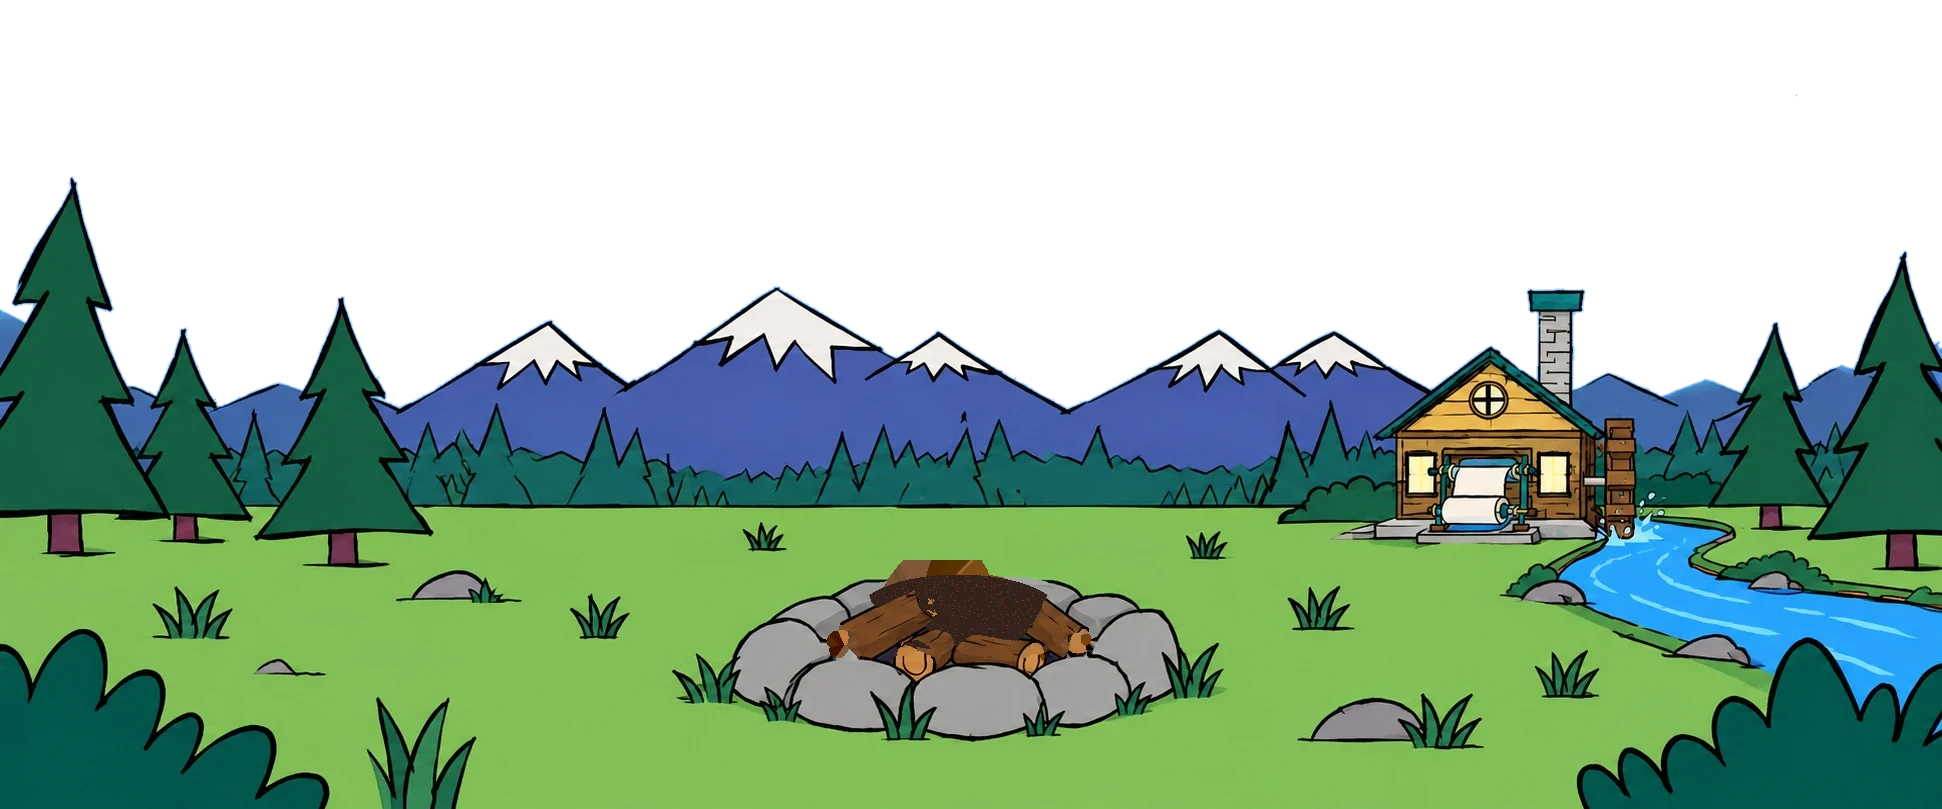
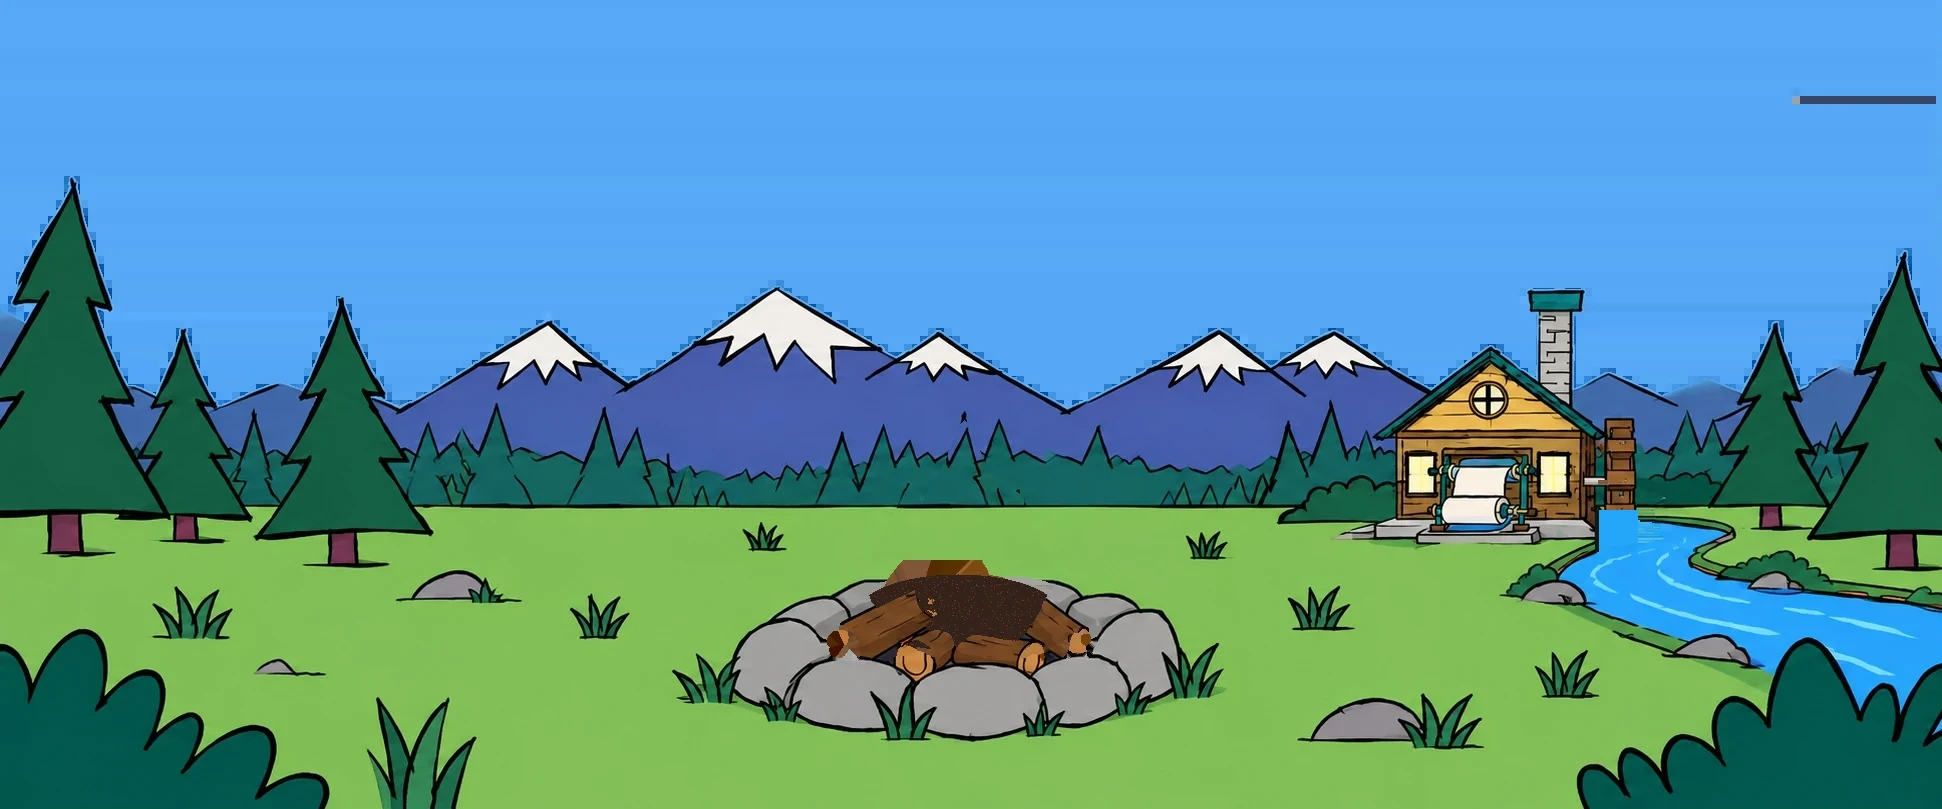
Scene fixes: deer nose, rabbit never hops backwards, tiny moving mill splash
The deer's last bend pose had lost its nose tip, so the graze stops one
pose short. The rabbit only looks back while it sits. The painted splash
at the mill is painted out; the wheel dips into a small channel with a
tiny animated froth, and the wheel strip no longer bleeds sky or water.

Claude-Session: https://claude.ai/code/session_01LEzX9WUx8sWcSwwRyLeaEz

diff --git a/web/src/components/scene.ts b/web/src/components/scene.ts
@@ -328,6 +328,20 @@ export function createScene(canvas: HTMLCanvasElement, onView?: (v: SceneView) =
     ctx.drawImage(land, wh.x, wh.y, wh.w, wh.h, wh.x, wh.y + off - wh.h, wh.w, wh.h);
     ctx.restore();
   }
+  // a tiny splash where the wheel dips in: a thin churn of foam, a few droplets, one ripple drifting off
+  function drawMillSplash(t: number, dark: number) {
+    const a = 1 - dark * 0.45, y0 = 515;
+    ctx.save();
+    ctx.fillStyle = `rgba(235,250,255,${0.85 * a})`;
+    for (let i = 0; i < 7; i++) { const x = 1600 + i * 6.3, r = 2.6 + 1.1 * Math.sin(t * 5.2 + i * 1.9);
+      ctx.beginPath(); ctx.ellipse(x, y0 + 1.5 + 0.8 * Math.sin(t * 3.7 + i), r + 1.2, r * 0.55, 0, 0, Math.PI * 2); ctx.fill(); }
+    for (let i = 0; i < 4; i++) { const ph = (t * 0.9 + i * 0.37) % 1, x = 1606 + i * 9 + ph * (i % 2 ? 7 : -5), y = y0 - Math.sin(ph * Math.PI) * (6 + i % 2 * 3);
+      ctx.fillStyle = `rgba(235,250,255,${(1 - ph) * 0.9 * a})`; ctx.beginPath(); ctx.arc(x, y, 1.6, 0, Math.PI * 2); ctx.fill(); }
+    const rp = (t * 0.45) % 1;
+    ctx.strokeStyle = `rgba(235,250,255,${(1 - rp) * 0.55 * a})`; ctx.lineWidth = 1.6;
+    ctx.beginPath(); ctx.ellipse(1622 + rp * 14, y0 + 5 + rp * 5, 10 + rp * 16, 2.2 + rp * 2, 0, 0.15, Math.PI - 0.15); ctx.stroke();
+    ctx.restore();
+  }
   function drawSun(px: number, py: number) {
     ctx.save(); ctx.translate(px, py); ctx.lineWidth = 4; ctx.strokeStyle = "#1b1712"; ctx.lineJoin = "round";
     ctx.beginPath(); for (let i = 0; i < 12; i++) { const a = i / 12 * Math.PI * 2; ctx.lineTo(Math.cos(a) * 78, Math.sin(a) * 78); ctx.lineTo(Math.cos(a + 0.26) * 58, Math.sin(a + 0.26) * 58); }
@@ -400,7 +414,7 @@ export function createScene(canvas: HTMLCanvasElement, onView?: (v: SceneView) =
     part("frontC", -sw - tilt * 0.8); part("frontD", sw - tilt * 0.8);
     // body + neck are one pre-bent drawing (12 poses, head up -> nose in the grass), so the shoulder never splits
     const nibble = g > 0.85 ? Math.max(0, Math.sin(t * 2.3)) * 1.4 : 0, sheet = assets["deer-bend.png"];
-    const fi = Math.max(0, Math.min(11, Math.round(e * 11 - nibble)));
+    const fi = Math.max(0, Math.min(10, Math.round(e * 10 - nibble))); // pose 11 of the sheet clips the nose, so the graze stops at 10
     if (sheet) { const fw = sheet.width / 12; x.drawImage(sheet, fi * fw, 0, fw, sheet.height, ox, oy + bob, fw * k, sheet.height * k); }
     x.restore(); x.restore();
     if (ringFront && deer.x > 640 && deer.x < 1280) x.drawImage(ringFront, 700, 560);
@@ -518,7 +532,7 @@ export function createScene(canvas: HTMLCanvasElement, onView?: (v: SceneView) =
   const rab = { active: false, x: 1760, dir: -1, mode: "hop", hop: 0, burst: 3, until: 0, stopAt: 1300, flee: false, look: 0, ear: 0, visits: 0 };
   function sendRabbit() { if (rab.active) return; Object.assign(rab, { active: true, x: 1730, dir: -1, mode: "hop", hop: 0, burst: 3, until: 0, flee: false, look: 0, stopAt: 1300 + Math.random() * 180, visits: 1 + Math.floor(Math.random() * 2) }); }
   function startle() { for (const pk of Object.values(peekers)) if (pk.active && !pk.duck) pk.duck = 1;
-    if (rab.active && !rab.flee && rab.dir < 0) { rab.flee = true; rab.dir = 1; rab.mode = "hop"; rab.hop = 0; } }
+    if (rab.active && !rab.flee && rab.dir < 0) { rab.flee = true; rab.dir = 1; rab.mode = "hop"; rab.hop = 0; rab.look = 0; } }
   function drawRabbit(x: CanvasRenderingContext2D, t: number, dt: number) {
     if (!rab.active) return;
     const k = 0.42, groundY = 776, hopLen = rab.flee ? 66 : 40, hopT = rab.flee ? 0.3 : 0.38;
@@ -535,7 +549,7 @@ export function createScene(canvas: HTMLCanvasElement, onView?: (v: SceneView) =
       if (Math.random() < dt * 0.5) rab.ear = t;
       if (!rab.look && Math.random() < dt * 0.25) rab.look = t;
       if (rab.look && t - rab.look > 0.9) rab.look = 0;
-      if (t > rab.until) { rab.visits--;
+      if (t > rab.until) { rab.visits--; rab.look = 0;
         if (rab.visits > 0) { rab.stopAt = Math.max(1280, rab.x - 50 - Math.random() * 70); rab.mode = "hop"; rab.burst = 2; }
         else { rab.dir = 1; rab.mode = "hop"; rab.burst = 9; } }
     }
@@ -545,7 +559,7 @@ export function createScene(canvas: HTMLCanvasElement, onView?: (v: SceneView) =
     const legB = inAir ? kf(p, [[0, 0], [0.3, 0.95], [0.62, 0.55], [0.88, -0.4], [1, 0]]) : 0;
     const legF = inAir ? kf(p, [[0, 0], [0.25, 0.25], [0.6, -0.55], [0.8, 0.05], [1, 0]]) : 0;
     const sx = inAir ? 1 + 0.08 * Math.sin(Math.PI * q) : 1, sy = inAir ? kf(p, [[0, 0.95], [0.12, 1.02], [0.8, 1], [0.9, 0.94], [1, 1]]) : 1;
-    const face = rab.look ? -rab.dir : rab.dir;
+    const face = rab.look && rab.mode === "alert" ? -rab.dir : rab.dir;
     const sniff = rab.mode === "alert" || rab.mode === "pause" ? Math.max(0, Math.sin(t * 14)) * 0.5 : 0;
     const flick = rab.ear && t - rab.ear < 0.35 ? Math.sin((t - rab.ear) / 0.35 * Math.PI) * 0.22 : 0;
     const earAng = flick + (inAir ? -0.2 * Math.sin(Math.PI * q) + kf(p, [[0, 0], [0.85, 0], [0.93, 0.12], [1, 0]]) : 0);
@@ -730,6 +744,7 @@ export function createScene(canvas: HTMLCanvasElement, onView?: (v: SceneView) =
       ctx.drawImage(water, 0, 0);
     }
     drawWheel(frame);
+    drawMillSplash(t, dark);
     drawFire(t, dt, fs, flick, dark);
     drawFlyingLogs(t);
     drawScraps(t);

diff --git a/web/src/components/sceneData.ts b/web/src/components/sceneData.ts
@@ -2,7 +2,7 @@
 // docs/HANDOFF.md, scene makeover). Coordinates are in the painting's own pixels (1942 x 809).
 
 /** the painted clouds (x, y in the painting) and the mill's water wheel strip */
-export const PAINT = {"clouds": [{"f": "a-cloud0.png", "x": 137, "y": 40}, {"f": "a-cloud1.png", "x": 1509, "y": 41}, {"f": "a-cloud2.png", "x": 1671, "y": 227}, {"f": "a-cloud3.png", "x": 155, "y": 229}], "wheel": {"kind": "strip", "x": 1603, "y": 418, "w": 33, "h": 112}, "outline": true};
+export const PAINT = {"clouds": [{"f": "a-cloud0.png", "x": 137, "y": 40}, {"f": "a-cloud1.png", "x": 1509, "y": 41}, {"f": "a-cloud2.png", "x": 1671, "y": 227}, {"f": "a-cloud3.png", "x": 155, "y": 229}], "wheel": {"kind": "strip", "x": 1606, "y": 420, "w": 27, "h": 88}, "outline": true};
 /** every weed tuft and bush, sliced into 30px columns: [x, y, w, h, y of its base] */
 export const TUFTS: number[][] = [[749, 542, 30, 10, 551], [779, 548, 7, 3, 550], [1190, 542, 30, 18, 559], [1220, 544, 4, 15, 558], [1501, 567, 30, 33, 599], [1531, 557, 30, 33, 589], [1561, 543, 30, 39, 581], [1591, 542, 16, 15, 556], [1687, 543, 30, 39, 581], [1717, 544, 30, 45, 588], [1747, 552, 30, 44, 595], [1777, 550, 30, 47, 596], [1807, 560, 30, 36, 595], [1837, 580, 30, 19, 598], [1867, 584, 30, 14, 597], [1897, 586, 30, 26, 611], [1927, 586, 15, 29, 614], [355, 559, 30, 8, 566], [385, 562, 5, 4, 565], [1914, 561, 27, 11, 571], [469, 577, 30, 26, 602], [499, 594, 22, 9, 602], [152, 586, 30, 53, 638], [182, 593, 30, 46, 638], [212, 589, 21, 51, 639], [1292, 587, 30, 44, 630], [1322, 586, 30, 45, 630], [1352, 627, 2, 2, 628], [570, 593, 30, 46, 638], [600, 596, 25, 43, 638], [1860, 593, 25, 11, 603], [1572, 595, 30, 30, 624], [1602, 612, 30, 28, 639], [1632, 621, 30, 34, 654], [1662, 631, 19, 27, 657], [0, 647, 30, 162, 808], [30, 643, 30, 166, 808], [60, 630, 30, 179, 808], [90, 632, 30, 177, 808], [120, 672, 30, 137, 808], [150, 672, 30, 137, 808], [180, 713, 30, 96, 808], [210, 729, 30, 80, 808], [240, 727, 30, 82, 808], [270, 736, 30, 73, 808], [300, 774, 27, 35, 808], [1578, 764, 30, 45, 808], [1608, 748, 30, 61, 808], [1638, 747, 30, 62, 808], [1668, 734, 30, 75, 808], [1698, 697, 30, 112, 808], [1728, 697, 30, 112, 808], [1758, 649, 30, 160, 808], [1788, 640, 30, 169, 808], [1818, 640, 30, 169, 808], [1848, 685, 30, 124, 808], [1878, 683, 30, 126, 808], [1908, 666, 30, 143, 808], [1938, 665, 4, 144, 808], [1733, 645, 30, 25, 669], [1763, 663, 3, 5, 667], [1166, 651, 30, 48, 698], [1196, 647, 28, 52, 698], [1535, 652, 30, 46, 697], [1565, 650, 30, 49, 698], [1595, 668, 5, 29, 696], [672, 654, 30, 50, 703], [702, 658, 30, 46, 703], [732, 662, 6, 41, 702], [292, 672, 30, 4, 675], [322, 673, 4, 3, 675], [877, 687, 30, 54, 740], [907, 685, 26, 56, 740], [1103, 691, 30, 30, 720], [1133, 685, 27, 30, 714], [758, 689, 30, 33, 721], [788, 702, 27, 23, 724], [1402, 693, 30, 56, 748], [1432, 699, 30, 51, 749], [1462, 693, 19, 56, 748], [367, 704, 30, 105, 808], [397, 721, 30, 88, 808], [427, 697, 30, 112, 808], [457, 741, 16, 57, 797], [1018, 705, 30, 33, 737], [1048, 714, 17, 22, 735]];
 /** the deer puppet: part origins and pivots at 1/4 of the art's size */

diff --git a/docs/HANDOFF.md b/docs/HANDOFF.md
@@ -57,6 +57,7 @@ Updated Sep 28 2026 (beta audit merged). Read this whole file before changing an
 | 32 | Rehearse the whole launch on testnet before Oct 1 (he's never deployed a contract) | Built: `script/DeployTestnet.s.sol` deploys the real Fire, drand router, adapter and PLANK price feed on Robinhood Chain testnet (46630) with play tokens (`contracts/testnet/TestnetKit.sol`: faucet tokens, a movable PLANK pool, an always-fresh ETH/USD feed) and seeds $250 of play PLANK. Checked end to end on a local copy of the chain: deploy, seed, a buy of 10 → 13 logs, the 30-minute price checkpoint, the storm roll. Site: `VITE_CHAIN=testnet` switches to testnet, shows a "Get play tokens" banner, hides the swap. Walkthrough: `docs/testnet-rehearsal.md`; launch day: `docs/launch-day.md`. Also: the "price moved" message no longer says "at tonight's storm" (the PLANK price moves any time now). **Next: he installs Foundry and runs it.** |
 | 33 | Prize cap 20x → 5x, and explain it in How it works | Built: `PRIZE_CAP_MULT = 5` (contract, site, sims); tests + parity regenerated, 124 pass. Grounded wild-year sim: pot under the $250 seed on 39% of days instead of 55%, year-end pot ~$743 instead of ~$209, prizes about the same. A fire now needs its own logs to be a fifth of the pot to pay the full 40% (~60 logs to unlock the full $250 seed). How it works: new "A small fire can't take a big pot" note with a worked example ($1,000 carried in, $20 of logs → $40 prize, ~$950 carries; $250 of logs → full $500). Spec, pot-sim and wild-year docs updated. **Awaiting approval.** |
 | 34 | Redesign the site around the new scene (Ed, Edd n Eddy feel) | Built on `wip/pending-approval` from the approved mocks: the painted scene (Plank in his chair, the Plank & Paper press, WebGL fire, the original storm and sounds, deer/rabbit/frog/squirrel/bear/heron) replaces the old scene; Chewy + Nunito, the title with How it works beside it, an MST clock with a to-the-second countdown to the 8 PM storm (orange in the last 10 min), the pot floating right above the fire, story cards over the fire, dark ink-edged panels below. Fire height now follows the log count (`fireLook`, same count = same size), and the storm's look and sound follow its rung on the 20-step ladder (`stormLook`, drizzle to monster); sim mirrors both. Phones: frames Plank and the fire, drag to look around, the camera nudges over to a visiting animal, forecast in a strip under the scene; sideways = the whole scene. Wind/stream turned down when there's no storm. Skunk and birds wait on art. Checked with screenshots: day/night, survive, went out, you won, relight, phone drag/pan, sideways. **Awaiting approval.** |
+| 35 | Scene fixes: deer nose, rabbit hop, mill splash | Built on `wip/pending-approval`: the deer stops one pose short of the last bend frame (that frame had lost its nose tip); the rabbit only looks back while it sits, so it never hops backwards; the painted splash at the mill is gone, the wheel dips into a small channel with a tiny moving froth and one ripple; the turning wheel no longer drags sky or water through it. Awaiting owner OK. |
 
 He also asked (answered, no code): "how do we track fake paper?" — there is none. ETH/USDG buyers get
 tickets directly; `ticketsOf[fire][wallet]` and the `TicketsBought` event (flag `paperFromFire`) record
